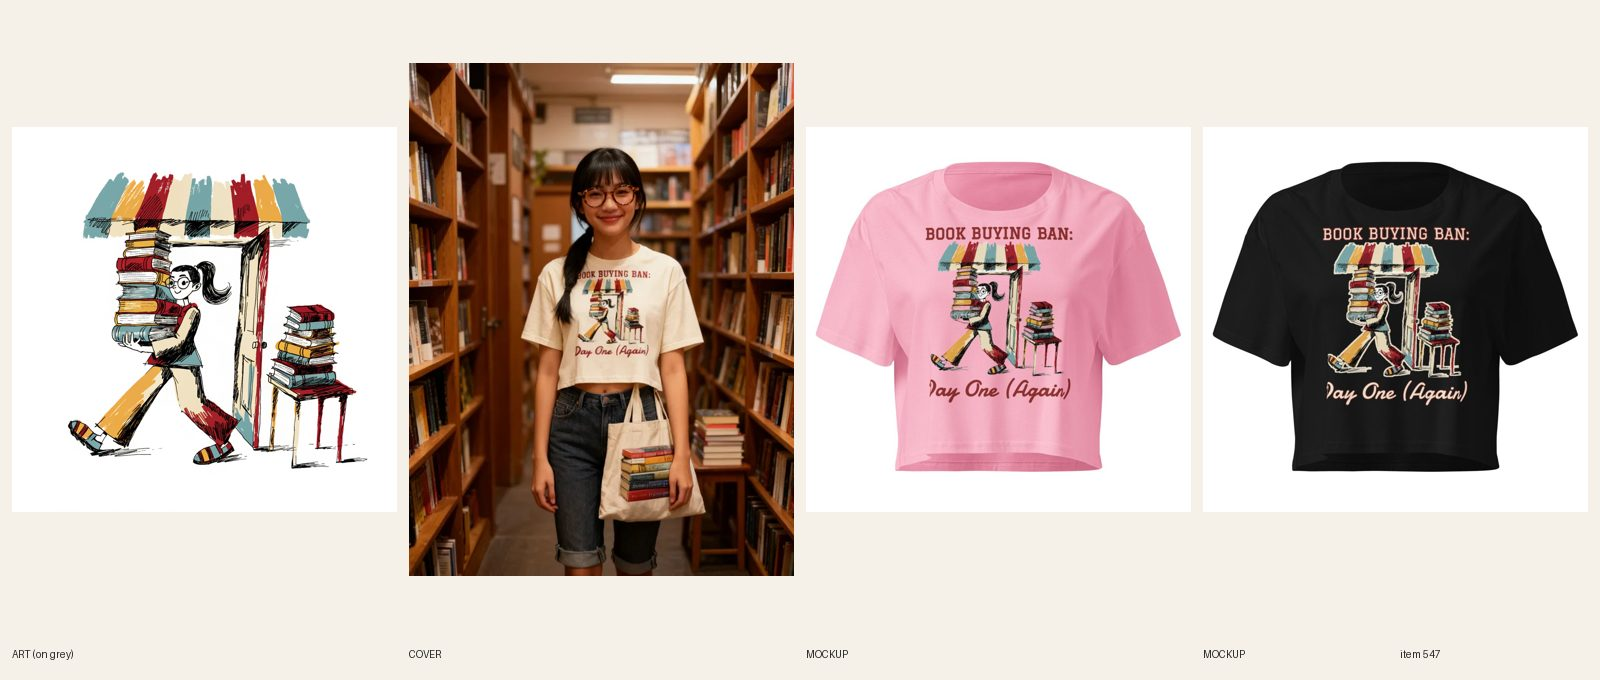
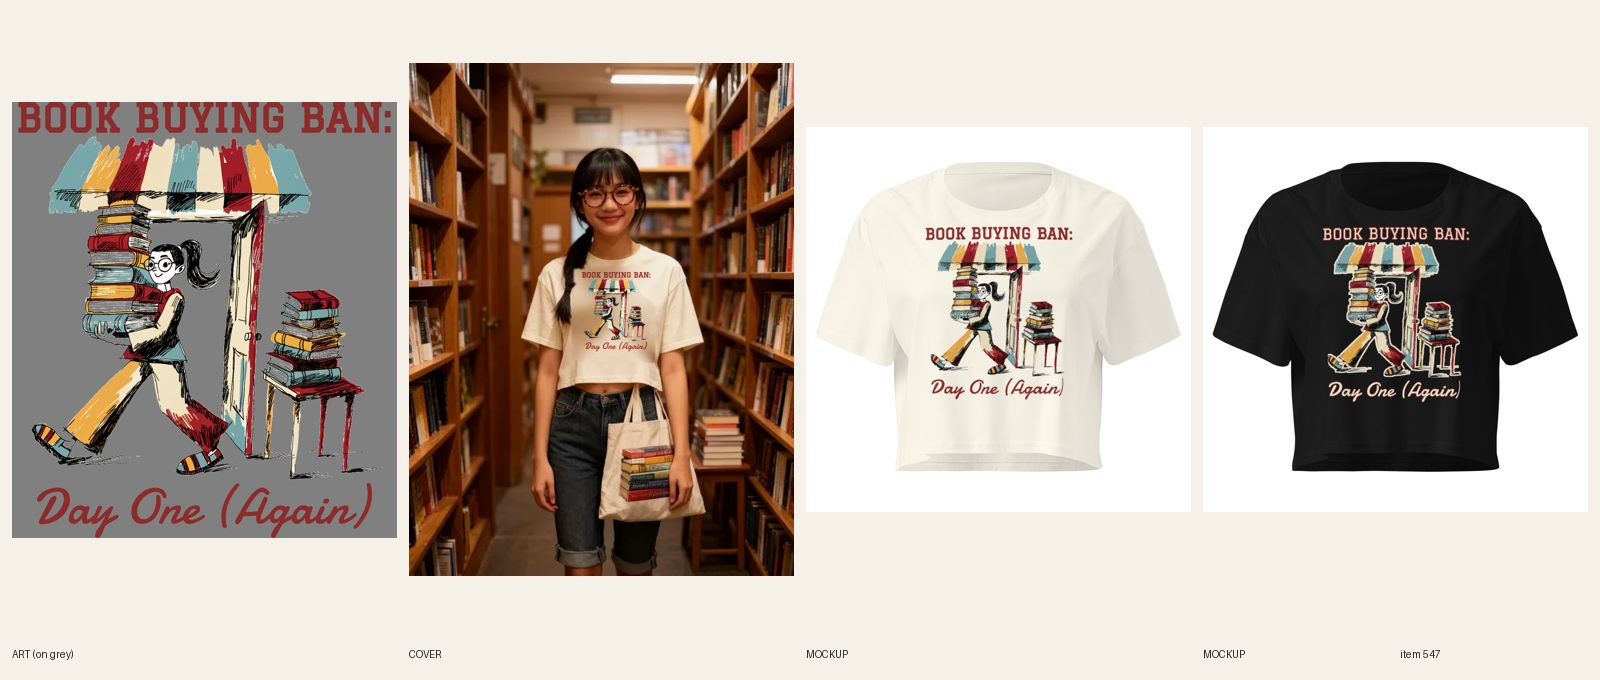
[B] review 547 Book Buying Ban cropped tee redo; release lane B lock

diff --git a/docs/intake-log.md b/docs/intake-log.md
@@ -1,4 +1,4 @@
-RUNNING lane B since 2026-10-18 09:40 UTC
+2026-10-18 09:55 UTC — [B] REVIEW #547 Book Buying Ban cropped tee REDO: lettering clipping fixed, 45/45 relinked, 9 new mockups, cover recomposited
 2026-10-18 09:50 UTC — [B] REVIEW #531 pump cover REDO: 2 detail close-ups added, design-crops rerun
 2026-10-18 09:30 UTC — [D] Late REVIEW: #555 #559 #577 (lane E R5.3.8 light-file fixes) sent back REDO for the cover only: hair over the T of TREAT (#555) and the M of MAKING (#577), 'rules are rules.' faded out on #559's cover composite. Light files themselves pass. Builder card 9b: first letter at 200% on every composite, REDO covers too.
 2026-10-18 09:29 UTC — [D] Director run: inbox nothing new. Reviewed 21 REVIEW sheets: 17 LIVE (#387 #391 #467 #542 #557 #579 #583 #591 #598 #606 #607 #620 #621 #622 #626 #636 newly ACTIVE + Online Store/Headless/Google & YouTube; #585 was already ACTIVE, its status had been flipped back to REVIEW by a late lane B sync line), every audit --handle PASS 0 warn. Copy fixes in Shopify: #557/#579 FAQ said the print was 'in dark colors' (now names the inks), #591/#622 'one of the <keyword>' (R8.3), #606 still described the old Sand file, #387/#598 'christmas' capitalised; #391 got christmas-sweatshirts-for-men. 4 REDO: #537 pump cover has no fal cover on Shopify and no detail shots (R6.1), #538 smooth half-disc wall behind the dog (R4.1) + hair on the M (R6.8), #588 cream HERE FOR THE on White with one file for all colors (R5.3.8, 5th hit), #624 BUILD CHARACTER. smeared on the cover and thin rust on both mockups (R6.8/R5.3.5). Builder card: 7e light-blank file at build time (R5.3.8 5th hit), 7f name the ink you see (4th templated-ink hit). #607 #636 to reference/best. 6 briefs #640-#645 (C: cat dad hoodie 140/36, baseball mom zip hoodie 720/45, capybara crewneck 720/38, welder crewneck 390/31, otter crewneck 210/40; A: We Said No Gifts crewneck, couples christmas sweatshirts 5,400/14, Dec 33,100), registry 980-985, keyword map updated. READY: A 12, B 12, C 9, E 12. Lane C stays under 12: re-measured about 90 hoodie/sweatshirt phrases for live designs; every KD ≤ 35 one is claimed except trades with no live design or proof (electrician/lineman/firefighter hoodie 210-480/KD 33-35); soccer mom twin skipped (#126 has small typeset sub-lines, R6.2). No Telegram (not a digest run, nothing needs Sam). Lock released.

diff --git a/docs/pipeline/547-cropped-tee-book-buying-ban.md b/docs/pipeline/547-cropped-tee-book-buying-ban.md
@@ -1,4 +1,4 @@
-status: REDO
+status: REVIEW
 lane: B
 type: new
 id: 547
@@ -32,3 +32,4 @@ shopify: gid://shopify/Product/15364680450352
 
 - [B] 2026-10-18 builder: sync DONE, R7.7 default-file check on Printful: 45/45 synced; default file 40 on 1088696564, 5 on 1088696573 (halo), back logo on all. Variant-photo audit clean. Status REVIEW.
 - 2026-10-18 07:22 UTC director: REDO (stays DRAFT). (1) R5.3.5 lettering: on every mockup the D of 'Day' and the closing ) of '(Again)' are cut off at the print file's edge, so it reads 'ay One (Again'. Re-set the line with compose-print.py with side padding so every glyph is whole, new Printful file, re-link and verify every variant (R7.7), regenerate mockups. (2) R6.8: on the cover her ponytail covers the B of BOOK; after the new mockups, re-composite the cover chest from the Natural/cream mockup and move the hair behind the shoulder (R6.9 composite-first). Remake docs/review/547.jpg, then REVIEW.
+- 2026-10-18 09:55 UTC builder [B]: REDO done. (1) Bottom line re-set in Damion at 3000 px inside a 3447 px file (old line ran edge to edge, 0..3446, so the D and ) were clipped); new files 1088788934 (dark ink, 40 variants) and 1088788939 (cream halo, Black, 5), FW 1260 TOP 0; R7.7: 45/45 synced, default file 40 on 1088788934 / 5 on 1088788939, back logo 1080398177 on all. 9 new front mockups (every color) attached to its variants, old ones deleted, back kept last; lettering whole on mockups. (2) Cover: erased and recomposited the new print right of the braid (cover-composite2.py), B of BOOK clear. docs/review/547.jpg remade. Status REVIEW.
